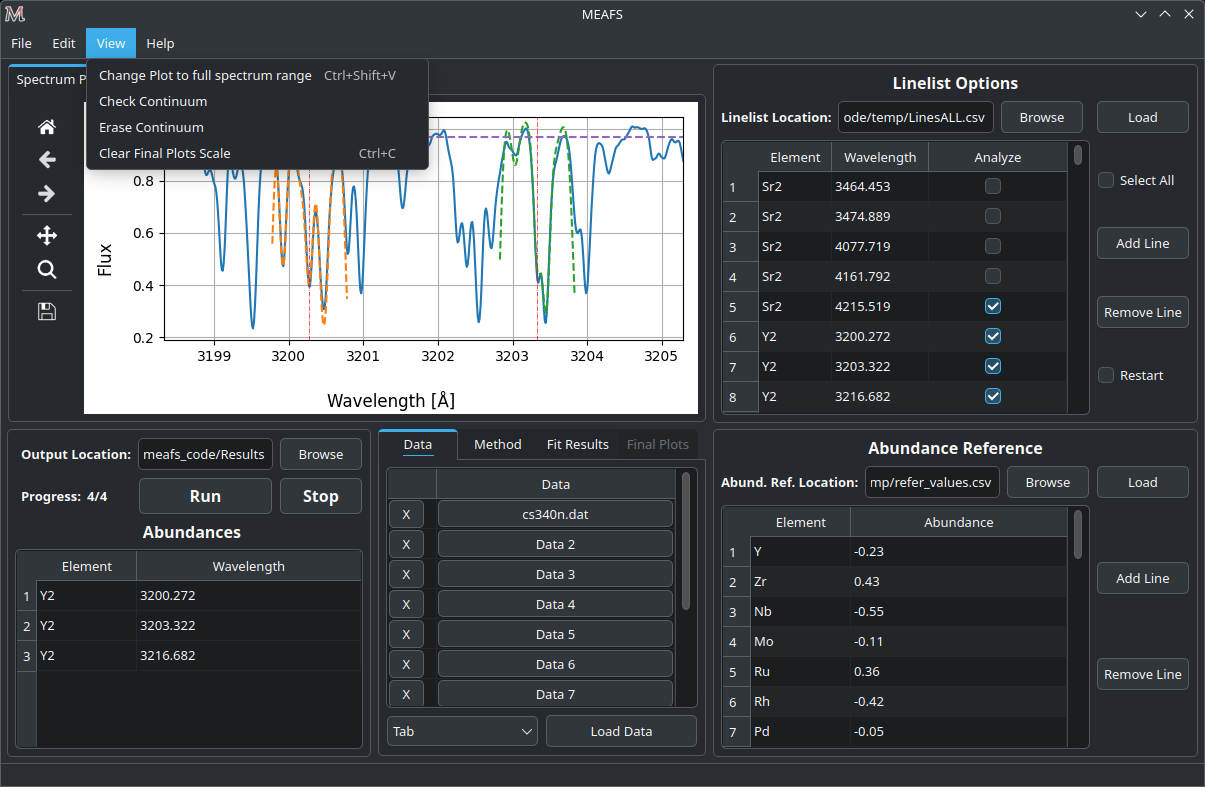
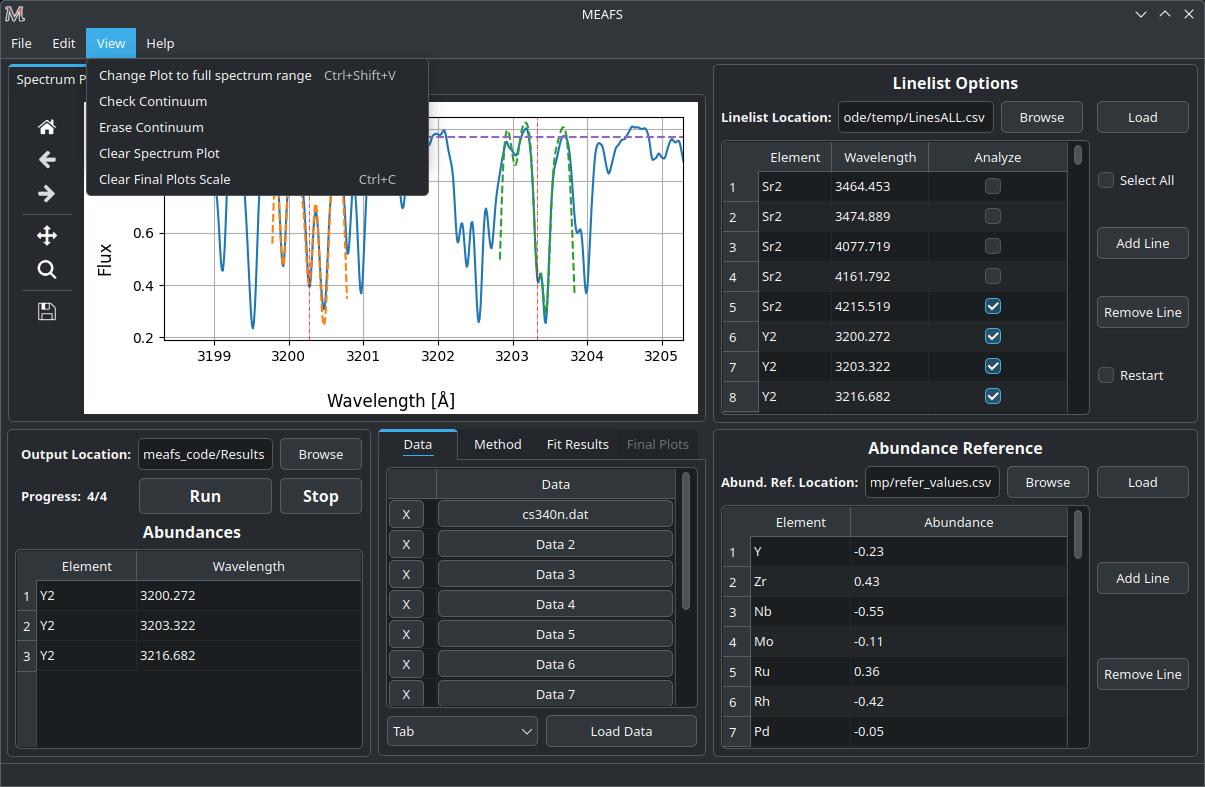
add clear spectrum plot option

Changed region(s): [[0.0614, 0.183, 0.3685, 0.2745]]

diff --git a/meafs_code/gui.py b/meafs_code/gui.py
@@ -411,6 +411,7 @@ class MEAFS(QtWidgets.QMainWindow, Ui_MEAFS):
         self.fullspec.triggered.connect(self.full_spec_plot_range)
         self.checkcontinuumplot.triggered.connect(self.run_check_continuum)
         self.erasecontinuumplot.triggered.connect(self.run_erase_continuum)
+        self.clearspectrumplot.triggered.connect(self.clear_spectrum_plot)
         self.clearfinalplotsscale.triggered.connect(self.clear_scale)
 
         self.fullspec.setShortcut(QtGui.QKeySequence("Ctrl+Shift+V"))
@@ -616,6 +617,10 @@ class MEAFS(QtWidgets.QMainWindow, Ui_MEAFS):
 
     @staticmethod
     def show_about():
+        """
+        Create a new window to show info about MEAFS.
+        """
+
         about_dialog = QtWidgets.QDialog()
         about_dialog.setWindowTitle("About MEAFS v{}".format(__version__))
 
@@ -1291,7 +1296,38 @@ class MEAFS(QtWidgets.QMainWindow, Ui_MEAFS):
 
         self.canvas.draw()
 
+    def clear_spectrum_plot(self):
+        """
+        Clear all plots in the Spectrum Plot tab, except the spectra themselves.
+        """
+
+        self.fig = plt.figure(tight_layout=True)
+        self.canvas = FigureCanvasQTAgg(self.fig)
+        self.canvas.figure.supxlabel("Wavelength [\u212B]")
+        self.canvas.figure.supylabel("Flux")
+        self.ax = self.canvas.figure.add_subplot(111)
+        self.ax.grid()
+
+        plot_widget = self.plot.itemAt(1).widget()
+        plot_widget.deleteLater()
+        self.plot.replaceWidget(plot_widget, self.canvas)
+
+        toolbar_widget = self.plot.itemAt(0).widget()
+        toolbar_widget.deleteLater()
+        self.plot.replaceWidget(toolbar_widget, VerticalNavigationToolbar2QT(self.canvas))
+
+        self.loadData()
+
+
+
     def clear_scale(self, show_msg=True):
+        """
+        Resets the fixed scale to show images in the final plots area, allowing resizing the GUI
+        into smaller sizes.
+
+        :param show_msg: Option to pop up a message saying that the scale was cleared.
+        """
+
         def reset_image(widget):
             sizepolicy = QtWidgets.QSizePolicy(QtWidgets.QSizePolicy.Policy.Preferred,
                                                QtWidgets.QSizePolicy.Policy.Preferred)
@@ -1318,6 +1354,10 @@ class MEAFS(QtWidgets.QMainWindow, Ui_MEAFS):
             self.show_error("Scale cleared.")
 
     def stop_func(self):
+        """
+        Define if the stop button was precessed during a run.
+        """
+
         self.stop_state = True
 
     def save_cur_abund(self):

diff --git a/meafs_code/gui_qt.py b/meafs_code/gui_qt.py
@@ -756,6 +756,8 @@ class Ui_MEAFS(object):
         self.guthubopen.setObjectName("guthubopen")
         self.aboutopen = QtGui.QAction(parent=MEAFS)
         self.aboutopen.setObjectName("aboutopen")
+        self.clearspectrumplot = QtGui.QAction(parent=MEAFS)
+        self.clearspectrumplot.setObjectName("clearspectrumplot")
         self.menuFile.addAction(self.new_2)
         self.menuFile.addAction(self.open)
         self.menuFile.addSeparator()
@@ -769,6 +771,7 @@ class Ui_MEAFS(object):
         self.menuView.addAction(self.fullspec)
         self.menuView.addAction(self.checkcontinuumplot)
         self.menuView.addAction(self.erasecontinuumplot)
+        self.menuView.addAction(self.clearspectrumplot)
         self.menuView.addAction(self.clearfinalplotsscale)
         self.menuEdit.addAction(self.fitpar)
         self.menuEdit.addAction(self.errorguireset)
@@ -922,6 +925,7 @@ class Ui_MEAFS(object):
         self.readthedocsopen.setText(_translate("MEAFS", "Read the Docs"))
         self.guthubopen.setText(_translate("MEAFS", "GitHub"))
         self.aboutopen.setText(_translate("MEAFS", "About"))
+        self.clearspectrumplot.setText(_translate("MEAFS", "Clear Spectrum Plot"))
 
 
 if __name__ == "__main__":

diff --git a/meafs_code/scripts/abundance_fit.py b/meafs_code/scripts/abundance_fit.py
@@ -235,11 +235,22 @@ def check_order(elem):
     :return: the element without the order and the order itself.
     """
 
+    if len(elem) == 1:
+        return elem, ""
+
     if elem[1].isdigit() or elem[1] == "I" or elem[1] == "V" or elem[1] == "X" or elem[1] == " ":
-        order = elem[1:]
+        if elem[1] == " ":
+            order = elem[2:]
+        else:
+            order = elem[1:]
         elem = elem[0]
     else:
-        order = elem[2:]
+        if len(elem) == 2:
+            return elem, ""
+        if elem[2] == " ":
+            order = elem[3:]
+        else:
+            order = elem[2:]
         elem = elem[0:2]
 
     return elem, order
@@ -407,10 +418,14 @@ def fit_abundance(linelist, spec_obs, refer_fl, folder, type_synth, cut_val=None
     else:
         continuum = None
 
+    input_opt_pars = opt_pars
+
     # For each line in the linelist file
     for i in range(len(linelist)):
         elem = linelist.iloc[i][0]
         lamb = float(linelist.iloc[i][1])
+
+        opt_pars = input_opt_pars
 
         if ui is not None:
             ui.linedefvalue.setText("Element {}, line {}".format(elem, lamb))

diff --git a/meafs_code/scripts/fit_functions.py b/meafs_code/scripts/fit_functions.py
@@ -213,9 +213,11 @@ def fit_continuum(spec, contpars=None, iterac=1000):
 
 # Compile C files
 if not os.path.isfile(Path(os.path.dirname(__file__)).joinpath("bisec_interpol.so")):
+    print("C module not found. Compiling...")
     currdir = os.getcwd()
     os.chdir(Path(os.path.dirname(__file__)))
     subprocess.run("gcc -Wall -pedantic -O3 bisec_interpol.c -o bisec_interpol.so -shared", shell=True)
     os.chdir(currdir)
+    print("Done.")
 
 c_lib = c_init(Path(os.path.dirname(__file__)).joinpath("bisec_interpol.so"))  # initialize the C library

diff --git a/meafs_code/scripts/bisec_interpol.c b/meafs_code/scripts/bisec_interpol.c
@@ -14,7 +14,7 @@
 #include<stdio.h>
 #include<time.h>
 #include<math.h>
-#include<omp.h>
+//#include<omp.h>
 
 /**
 Function that applies the bisection method.

diff --git a/meafs_code/__init__.py b/meafs_code/__init__.py
@@ -1,4 +1,4 @@
-__version__ = "5.1.3"
+__version__ = "5.2.0"
 __author__ = "Matheus J. Castro"
 
 from meafs_code import gui

diff --git a/docs/manual.rst b/docs/manual.rst
@@ -8,7 +8,6 @@ Starting MEAFS
 --------------
 
 
-
 View mode
 ---------
 
@@ -386,6 +385,14 @@ toolbar, like in the image bellow:
    
 | 
 
+Cleaning the Plot
+"""""""""""""""""
+
+Sometimes the plot can be very crowded, you may want to clean the lines fit and other draws. 
+It is possible to this by clicking in the menu *View* > *Clear Spectrum Plot*.
+
+Then, you can use the option :ref:`open_old_results` to load again only the last fitted lines.
+
 .. _check_cont:
 
 Check continuum fit
@@ -675,6 +682,8 @@ And to open the last closed session, type:
 .. code-block:: bash
 
    meafs -l
+
+.. _open_old_results:
 
 Open old results
 ^^^^^^^^^^^^^^^^
